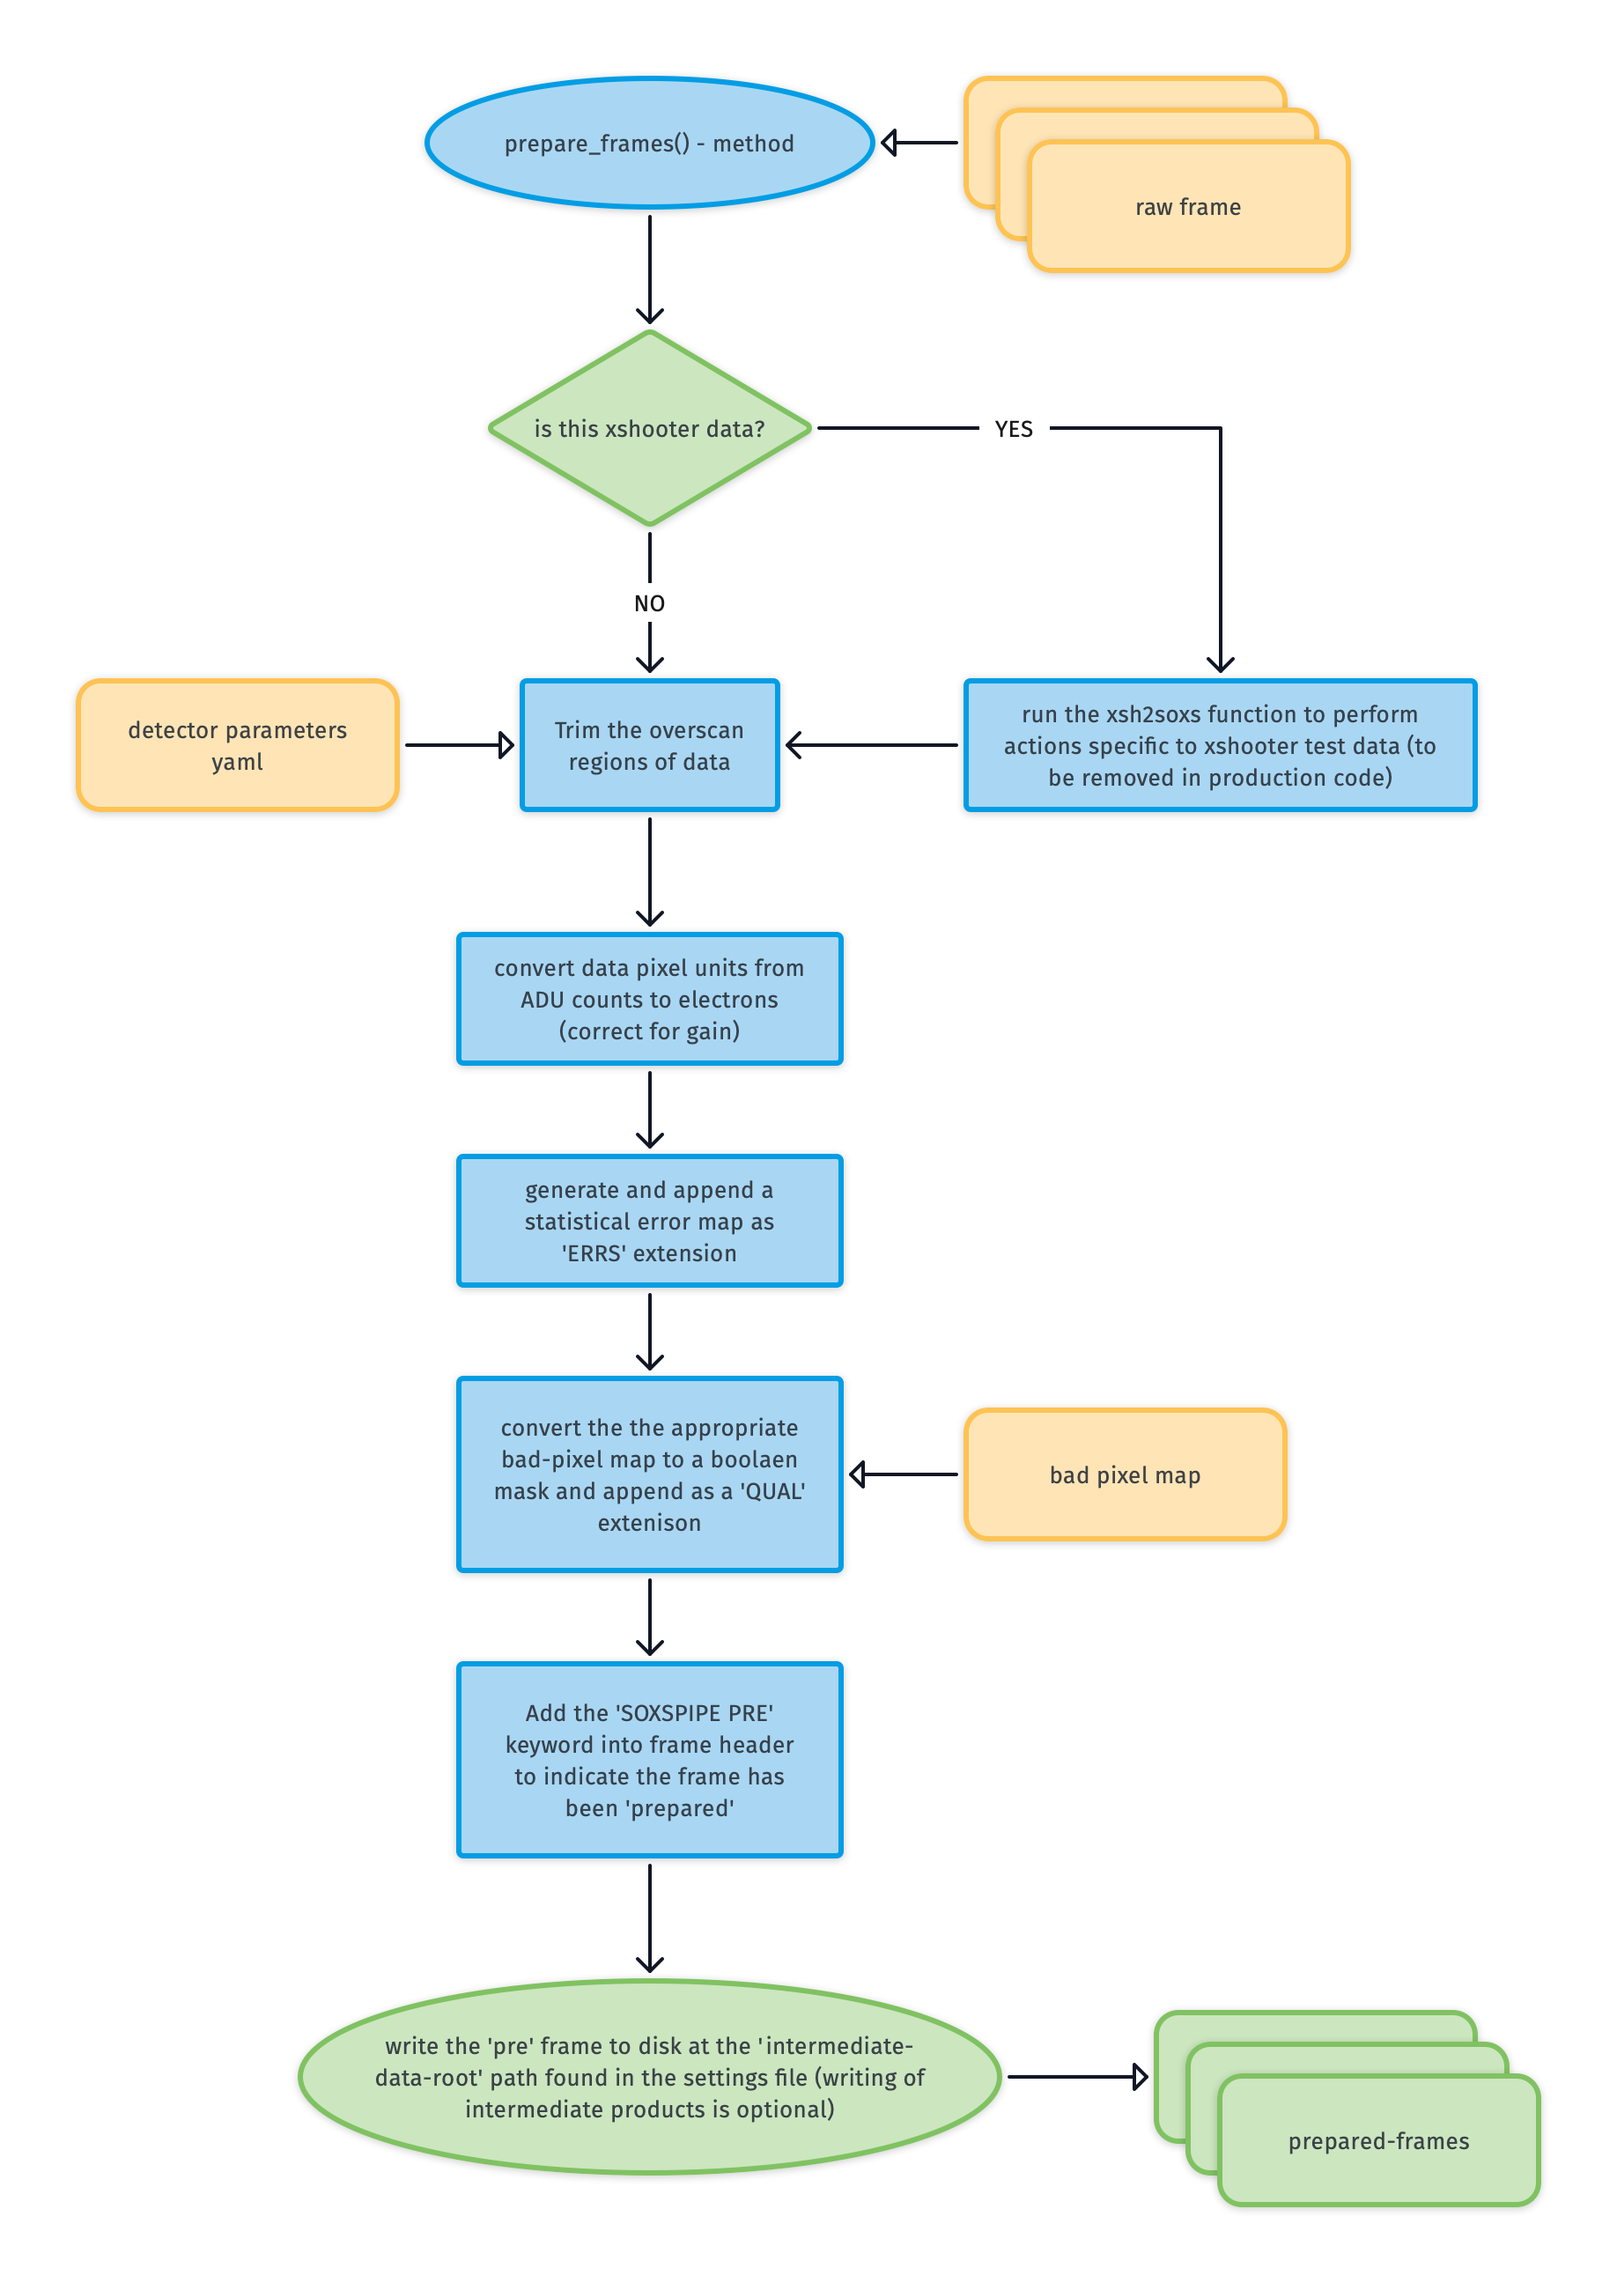
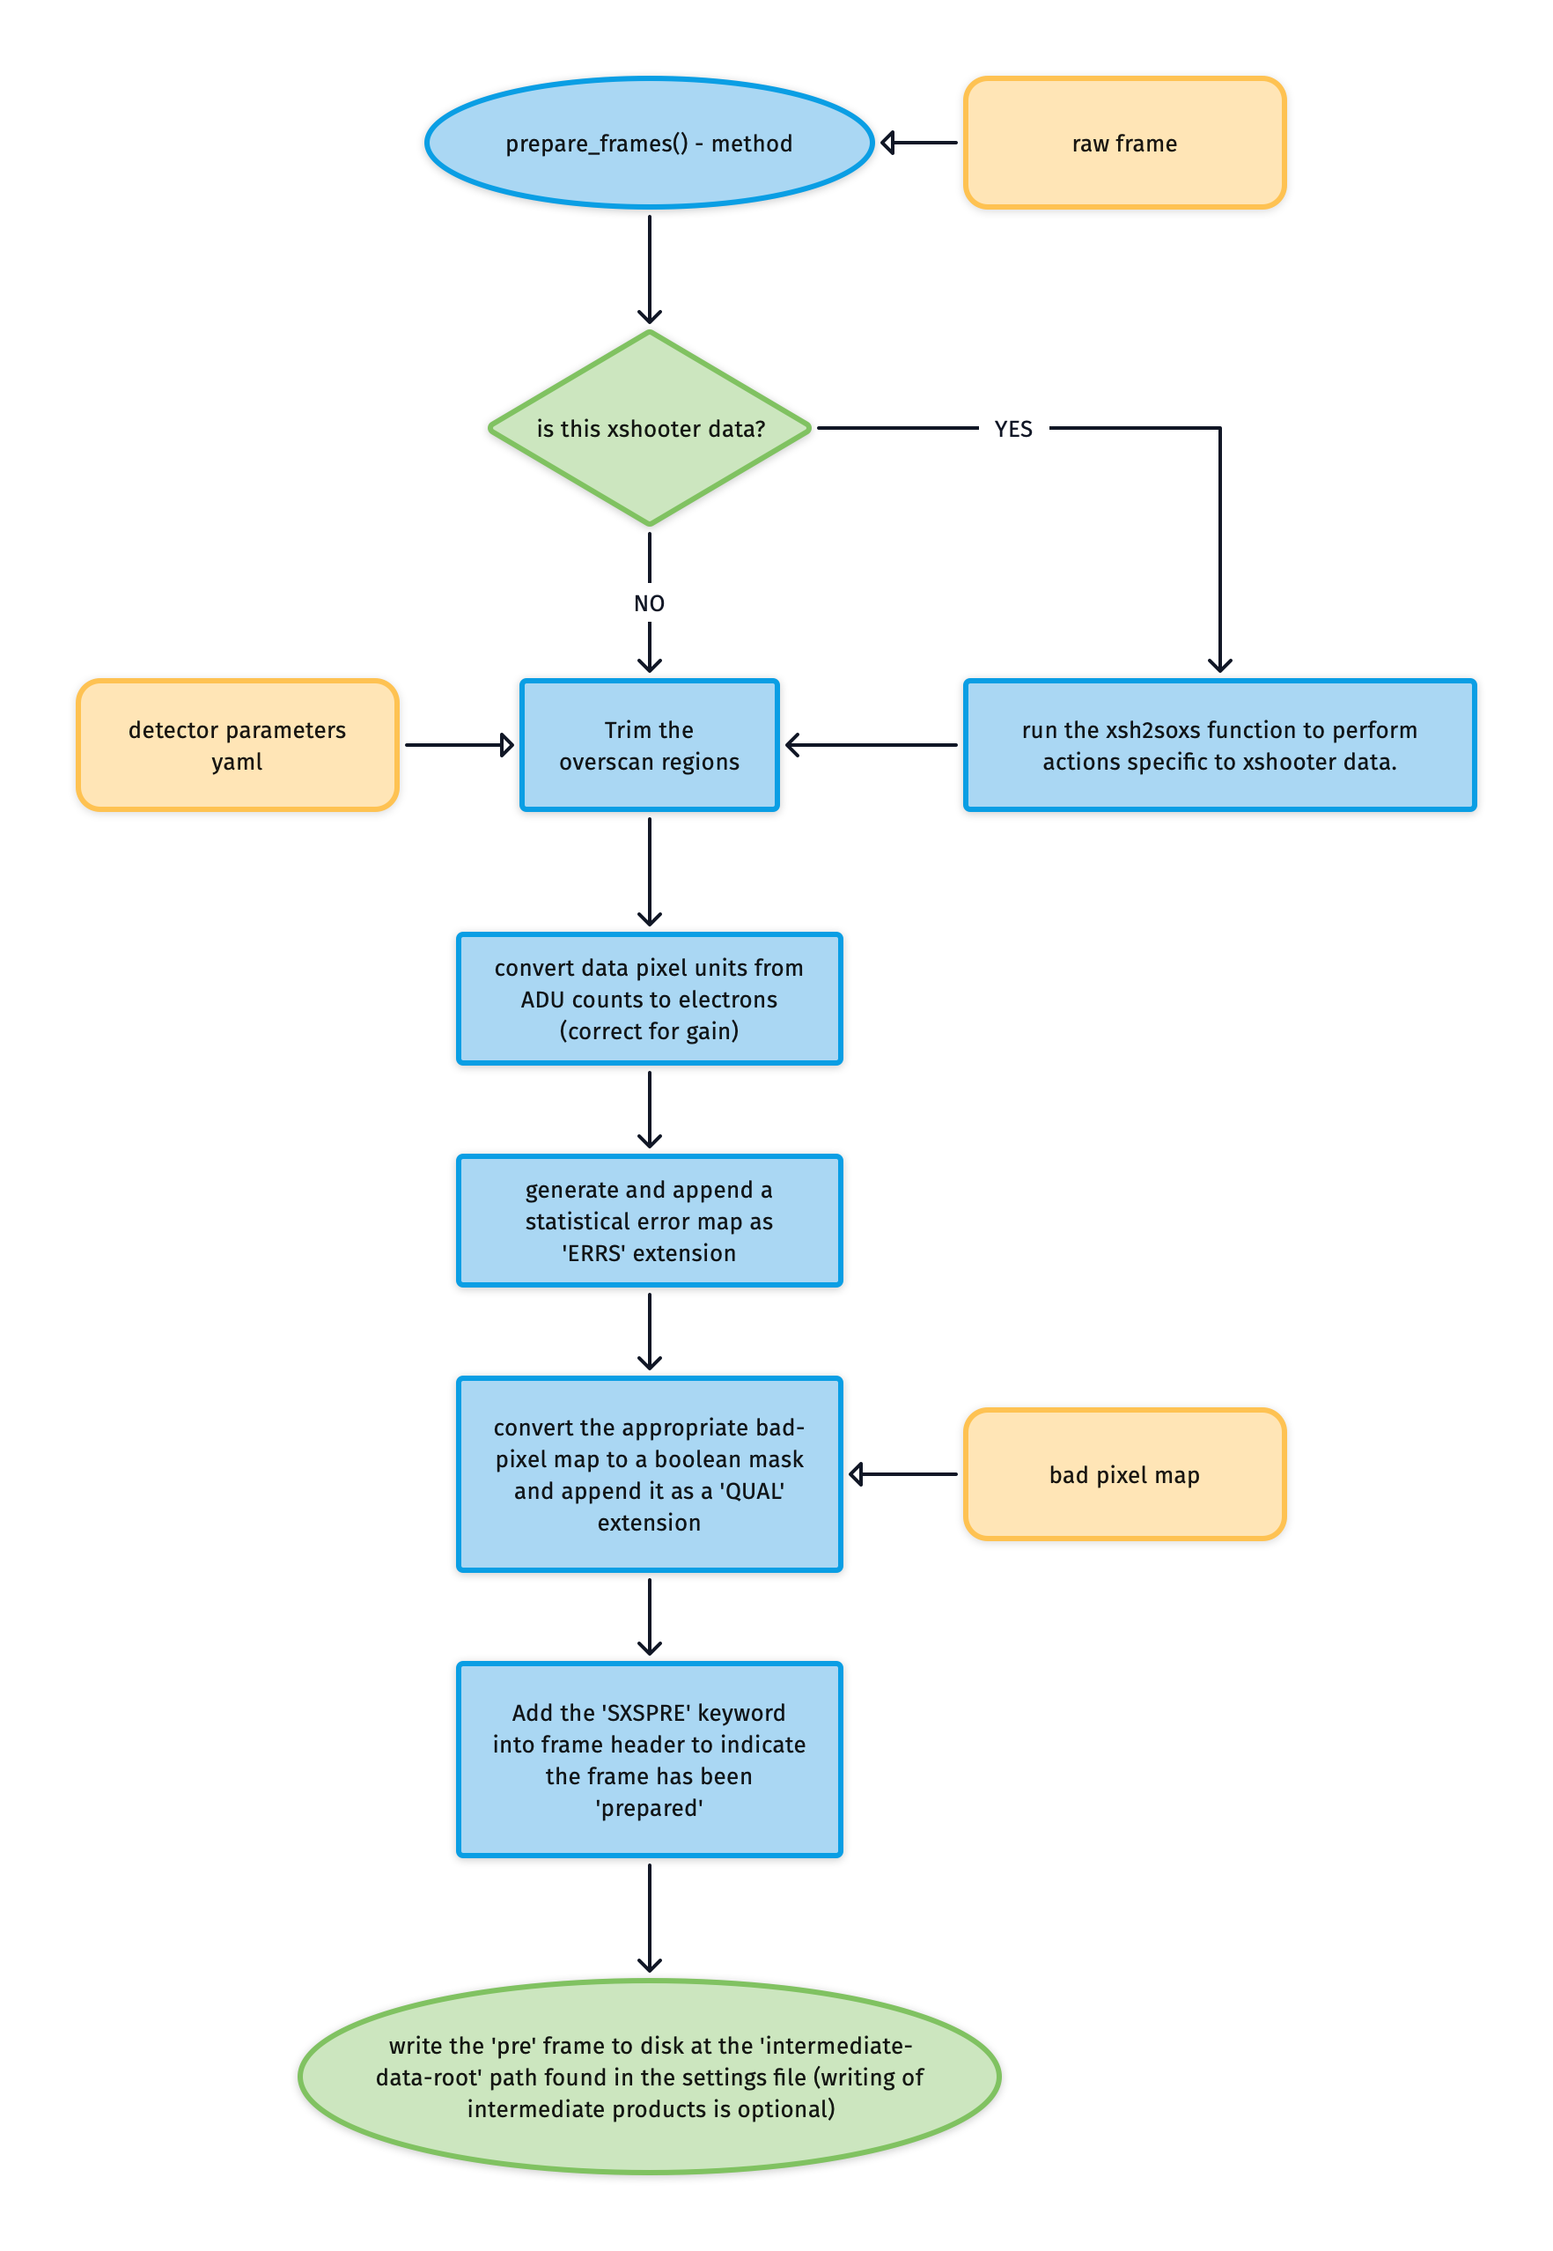
prepare frames docs added

diff --git a/soxspipe/recipes/base_recipe.py b/soxspipe/recipes/base_recipe.py
@@ -256,7 +256,7 @@ class base_recipe(object):
                 frame, readnoise=dp["ron"], disregard_nan=True)
 
         # FIND THE APPROPRIATE BAD-PIXEL BITMAP AND APPEND AS 'FLAG' EXTENSION
-        # NOTE FLAGS NOTE YET SUPPORTED BY CCDPROC THIS THIS WON'T GET SAVED OUT
+        # NOTE FLAGS NOT YET SUPPORTED BY CCDPROC THIS THIS WON'T GET SAVED OUT
         # AS AN EXTENSION
         arm = self.arm
         if arm != "NIR" and kw('WIN_BINX') in frame.header:
@@ -285,15 +285,6 @@ class base_recipe(object):
             self.log.critical(message)
             raise IOError(message)
         bitMap = CCDData.read(bitMapPath, hdu=0, unit=u.dimensionless_unscaled)
-
-        # BIAS FRAMES HAVE NO 'FLUX', JUST READNOISE, SO ADD AN EMPTY BAD-PIXEL
-        # MAP
-        # if frame.header[kw("DPR_TYPE")] == "BIAS":
-        #     bitMap.data = np.zeros_like(bitMap.data)
-
-        # self.log.print(bitMap.data.shape)
-        # self.log.print(frame.data.shape)
-
         frame.flags = bitMap.data
 
         # FLATTEN BAD-PIXEL BITMAP TO BOOLEAN FALSE (GOOD) OR TRUE (BAD) AND

diff --git a/docs/source/utils/prepare_frames.md b/docs/source/utils/prepare_frames.md
@@ -1,15 +1,12 @@
 # `prepare_frames`
 
-The purpose of [`prepare_frames`](#soxspipe.recipes.base_recipe.base_recipe.prepare_frames) is to prepare the raw SOXS frames for data reduction by trimming the overscan regions, converting the data count unit to electrons amd assigning an initial error map and bad-pixel maps.
-
-Here's the typical workflow for preparing the raw frames:
-
+The purpose of [`prepare_frames`](#soxspipe.recipes.base_recipe.base_recipe.prepare_frames) is to prepare the raw SOXS frames for data reduction by trimming the overscan regions, converting the data count unit to electrons and assigning an initial error map and bad-pixel maps.
 
 :::{figure-md} prepare_frame_util
 :target: prepare_frame.png
 ![](prepare_frame.png){width=600px}
 
-The algorithm used to prepare raw frames for data-reduction.
+This is the algorithm used to prepare raw frames for data reduction.
 :::
 
 **1. Trim Overscan**
@@ -18,15 +15,15 @@ The first thing we need to do is trim off the overscan area of the image. The sc
 
 **2. ADU to Electrons**
 
-Next the pixel data is converted from ADU to electron counts by multiplying each pixel value in the raw frame by the detector gain (the gain is read in units of electrons/ADU).
+Next, the pixel data is converted from ADU to electron counts by multiplying each pixel value in the raw frame by the detector gain (the gain is read in units of electrons/ADU).
 
 $$\rm{electron\ count} = \rm{adu\ count} \times \rm{gain}$$
 
 **3. Generating an Uncertainty Map**
 
-Next an uncertainty map is generated for the raw image and added as the 'ERR' extension of the image.
+Next, an uncertainty map is generated for the raw image and added as the 'ERR' extension of the image.
 
-<!-- For each pixel the uncertainty is calculated as:
+<!-- For each pixel, the uncertainty is calculated as:
 
 $$\rm{error} = \sqrt{\rm{readnoise}^2+\rm{electron\ count}^2}$$ -->
 
@@ -36,11 +33,11 @@ The appropriate bitmap extension is selected and simply added as the 'FLAG' exte
 
 **4. Bad Pixel Mask**
 
-The default detector bitmap is read from the static calibration suite and converted to a boolean mask, with values >0 becoming TRUE to indicate these pixels need to be masks. All other values are set to FALSE. This map is add as the 'QUAL' extesion of the image. 
+The default detector bitmap is read from the static calibration suite and converted to a boolean mask, with values >0 becoming TRUE to indicate these pixels must be masked. All other values are set to FALSE. This map is added as the 'QUAL' extension of the image. 
 
-Finally the prepared frames are saved out into the intermediate frames location with the prefix `pre_`.
+Finally, the prepared frames are saved into an intermediate frames location with the prefix `pre_`.
 
-Viewing the image in DS9 (using the command `ds9 -multiframe -tile columns pre_filename.fits` to show all extensions as tiled frames) we can see the 'FLUX', 'QUAL' and 'ERR' extensions are now all present.
+Viewing the image in DS9 (using the command `ds9 -multiframe -tile columns pre_filename.fits` to show all extensions as tiled frames), we can see the 'FLUX', 'QUAL' and 'ERR' extensions are now all present.
 
 :::{figure-md} image_extensions
 :target: ../_images/image-20240910102057203.png
@@ -50,8 +47,6 @@ Each prepared frame has data (FLUX), bad-pixel mask (QUAL) and uncertainty map (
 :::
 
 
-
-![image-20240910102057203](../_images/image-20240910102057203.png)
 
 :::{autodoc2-object} soxspipe.recipes.base_recipe.base_recipe.prepare_frames
 :::
